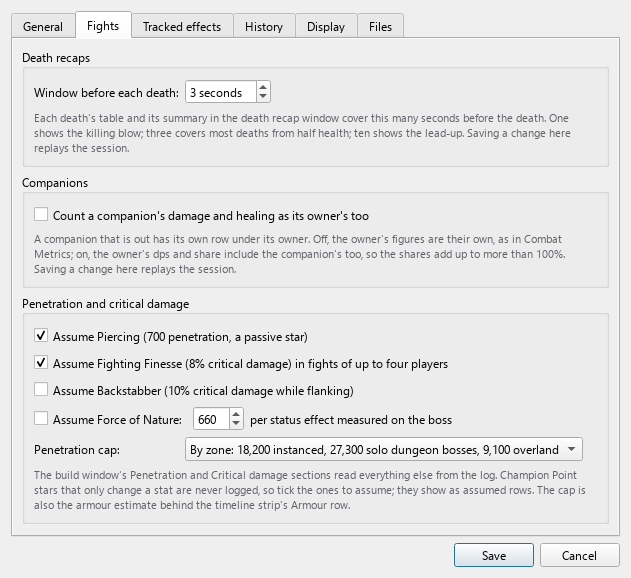
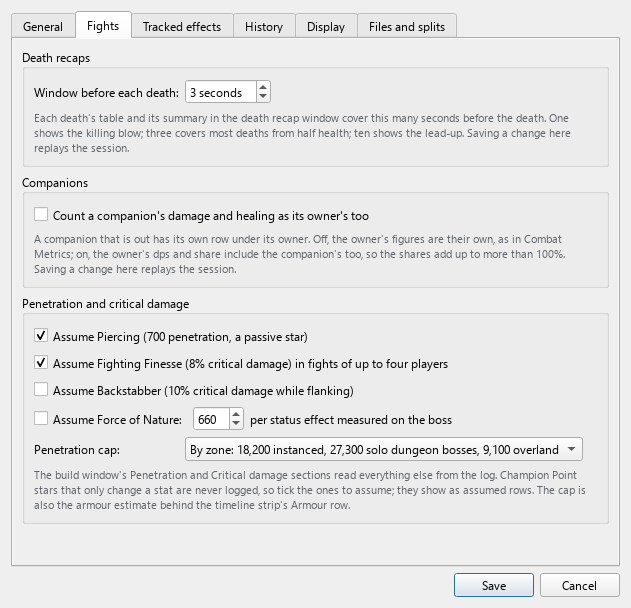
feat: the Files and splits tab, and the archive threshold as "surpasses" with what an archive does (#187)
Chris, on the test app's Files page:

- The tab reads "Files and splits".
- "Archive when the log grows by:" reads "Archive when the log
  surpasses:", and its help says what the threshold is measured against
  (the log's growth since the last archive, as log_archiver counts it)
  and what an archive does: the whole Encounter.log streamed into
  Encounter-YYMMDDHHMMSS.zip in the archive folder, stamped from the
  newest entry, verified before it is kept, the log left alone unless
  the delete box is ticked, a log the game has open skipped until the
  next start, Archive now on the toolbar doing the same at any moment.
- The guide's Trigger bullet names the label; the page's picture is
  settings-files-and-splits.png, all six retaken (the dialog is 611 px
  tall now that this page is the tallest), the threshold box set to the
  1024 MB default for the picture as the update box already is.

The no-scroll test asserts bars only when the screen capped neither
axis: a capped width squeezes a page narrower than its hint, so its
wrapped help grows taller and a vertical bar shows.

diff --git a/src/gui/settings_dialog.py b/src/gui/settings_dialog.py
@@ -50,9 +50,9 @@ REPLAYS = "Saving a change here replays the session."
 # the page it sits on is new. When a change takes effect: General, the
 # log path replays and the rest apply at once; Fights, recaps and
 # companions replay, pen/crit at the next build window; Tracked effects
-# replays; History and Display at once; Files, the split files replay,
-# retention at its next run, archiving at the next start.
-PAGES = ("General", "Fights", "Tracked effects", "History", "Display", "Files")
+# replays; History and Display at once; Files and splits, the split files
+# replay, retention at its next run, archiving at the next start.
+PAGES = ("General", "Fights", "Tracked effects", "History", "Display", "Files and splits")
 
 RULES_HELP = ("Name = ability ids on self | group | pets | boss | enemies, then stacks, each or "
               "dots; add expected solo | small | large | all. Every row of the timeline strip "
@@ -91,6 +91,14 @@ RETENTION_HELP = ("Zipped splits keep their name plus .zip and still open for re
 SIZE_GUIDE = ("Sizing guide: a veteran trial run is typically 100–300 MB, "
               "a veteran dungeon roughly 25–75 MB. "
               "1024 MB (1 GB) ≈ five veteran trials.")
+# What the threshold is measured against and what an archive does
+# (log_archiver): the label says "surpasses", so the help says since when
+ARCHIVE_HELP = ("Checked when the app starts, against what the log has grown since the last "
+                "archive. An archive streams the whole Encounter.log into "
+                "Encounter-YYMMDDHHMMSS.zip in the archive folder, stamped from the log's newest "
+                "entry and verified before it is kept; the log itself is left as it is unless the "
+                "box below is ticked. A log the game has open is skipped until the next start, and "
+                "Archive now on the toolbar does the same at any moment. " + SIZE_GUIDE)
 
 # "Warning:" in the text, so the warning is not its orange alone (#77, #187)
 DELETE_WARNING = ("Warning: deletes Encounter.log after the archive is created and "
@@ -327,9 +335,8 @@ class SettingsDialog(QDialog):
         self.threshold.setRange(1, 1024 * 100)
         self.threshold.setSuffix(" MB")
         self.threshold.setValue(int(config.get("archive.size_threshold_mb", 1024) or 1024))
-        archive_form.addRow("Archive when the log grows by:", self.threshold)
-        archive_form.addRow(self._help("Checked when the app starts. " + SIZE_GUIDE,
-                                       self.threshold))
+        archive_form.addRow("Archive when the log surpasses:", self.threshold)
+        archive_form.addRow(self._help(ARCHIVE_HELP, self.threshold))
         self.archive_dir = _PathRow(config.get("archive.dir") or "", directory=True,
                                     name="Archive folder", blank="log folder")
         archive_form.addRow("Archive folder (blank = log folder):", self.archive_dir)

diff --git a/tests/unit/test_settings_pages.py b/tests/unit/test_settings_pages.py
@@ -50,7 +50,8 @@ GROUP_PAGES = {
     "Penetration and critical damage": "Fights",
     "Fight history": "History", "Score banner": "History",
     "Display": "Display", "Privacy": "Display",
-    "Per-encounter split files": "Files", "Automatic log archiving": "Files",
+    "Per-encounter split files": "Files and splits",
+    "Automatic log archiving": "Files and splits",
 }
 
 # A value for every key the dialog writes, none of them the default
@@ -97,7 +98,7 @@ class TestSettingsPages(unittest.TestCase):
         from gui.settings_dialog import PAGES
         dialog = self._dialog()
         self.assertEqual(PAGES, ("General", "Fights", "Tracked effects", "History", "Display",
-                                 "Files"))
+                                 "Files and splits"))
         self.assertEqual([dialog.tabs.tabText(i) for i in range(dialog.tabs.count())],
                          list(PAGES))
         found = {group.title(): dialog.page_of(group)
@@ -132,16 +133,17 @@ class TestSettingsPages(unittest.TestCase):
             scroll = dialog._pages[name]
             body = scroll.widget()
             viewport = scroll.viewport()
-            # A capped width can show a horizontal bar, which takes height
-            # from the viewport
+            # A capped width squeezes the body narrower than its hint: its
+            # wrapped help grows taller, or a horizontal bar takes height
+            # from the viewport, so bars are asserted only uncapped
             hbar = scroll.horizontalScrollBar()
             taken = hbar.height() if hbar.isVisible() else 0
             if not capped_h:
                 self.assertLessEqual(body.sizeHint().height(), viewport.height() + taken, name)
-                if not taken:
-                    self.assertFalse(scroll.verticalScrollBar().isVisible(), name)
             if not capped_w:
                 self.assertLessEqual(body.sizeHint().width(), viewport.width(), name)
+            if not capped_h and not capped_w:
+                self.assertFalse(scroll.verticalScrollBar().isVisible(), name)
                 self.assertFalse(scroll.horizontalScrollBar().isVisible(), name)
             # The editor takes the Tracked effects page's height
             if name == "Tracked effects":
@@ -230,8 +232,8 @@ class TestSettingsPages(unittest.TestCase):
         self.assertEqual(second.tabs.currentIndex(), PAGES.index("History"))
         second.accept()
         # A caller can name the page; an unknown name falls back to the memory
-        self.assertEqual(self._dialog(open_page="Files").tabs.currentIndex(),
-                         PAGES.index("Files"))
+        self.assertEqual(self._dialog(open_page="Files and splits").tabs.currentIndex(),
+                         PAGES.index("Files and splits"))
         self.assertEqual(self._dialog(open_page="Nowhere").tabs.currentIndex(),
                          PAGES.index("History"))
 

diff --git a/scripts/capture_screenshots.py b/scripts/capture_screenshots.py
@@ -30,7 +30,7 @@ time, so the pictures stay in step with the app:
     settings-tracked-effects.png
     settings-history.png
     settings-display.png
-    settings-files.png
+    settings-files-and-splits.png
     examples-dialog.png             the example tracking rules picker
     review-mode.png                 a log opened for review
 
@@ -300,6 +300,9 @@ def main():
     # The box only, not the config (no check runs): the guide shows the
     # update channel as a user with checks on sees it
     dialog.update_check.setChecked(True)
+    # The box only, again: the scratch config keeps archiving off with a
+    # threshold at the spin box's maximum, which is not what a user sees
+    dialog.threshold.setValue(1024)
     dialog.show()
     pump(1)
     # One picture per page, the dialog at its natural size (its tallest

diff --git a/docs/user-guide.md b/docs/user-guide.md
@@ -411,9 +411,9 @@ Open **Settings…** from the toolbar. The settings are on six pages; the dialog
 - **Display**: *Text size*, 80% to 200% of the system's text in steps of 10, for the whole app: the fight list, the pages, every window, Settings and the timeline strip, whose rows and labels grow with it. Ability icons grow above 100% and never shrink below it. Ctrl+=, Ctrl+- and Ctrl+0 change it without opening Settings. It applies as soon as Settings is saved; no replay is needed for it. *Colour-blind colours and line styles in the DPS graph* (off by default) swaps the graph's colours for a set measured to stay apart for colour-blind readers, and gives each line a stroke of its own as well; see [DPS over time](#dps-over-time). *Reduce motion* keeps the ring on a taunt skill's icon still instead of pulsing.
 - **Privacy**: hide other players' handles and character names, the same switch as the toolbar's **Hide names** button and Ctrl+H. See [Hiding other players' names](#hiding-other-players-names).
 
-**Files**: the split logs and the archive.
+**Files and splits**: the split logs and the archive.
 
-![Settings, the Files page](screencaps/settings-files.png)
+![Settings, the Files and splits page](screencaps/settings-files-and-splits.png)
 
 - **Per-encounter split files**: write each encounter to its own `YYMMDDHHMMSS-{Zone-Name}{-vet}.log` in a folder of your choice (blank uses the log's folder). They are handy for review, and small enough to share. *Zip split logs older than N weeks* and *Move split logs to the Recycle Bin when older than M weeks* (both off by default) keep the folder in check: see [Old split logs](#old-split-logs). One file per logging session: a session the app meets again (starting mid-session, saving Settings, a restart or a crash) is continued in the file it already has, never written again under a `-1`; a file cut short gets its missing end, a complete one is left as it is. Only one running copy of the app writes into a folder: a second one finds the first's lock file there (`.esolog-tail-split.lock`) and says so in the status bar instead of splitting. Copies that an older version left behind (`-1`, `-2`, … files identical to their neighbour) can be moved to the Recycle Bin with `python scripts/dedupe_splits.py --recycle` from a source checkout.
 - **Automatic log archiving**: the growth threshold that triggers an archive at startup, the archive folder, and whether to delete the original after a verified archive. See [below](#automatic-log-archiving).
@@ -439,7 +439,7 @@ If a download fails, the button comes back and the status bar says why.
 ESO never truncates `Encounter.log`. With regular raiding it grows by hundreds of MB a night and can reach tens of GB. The app archives it for you.
 
 - **When**: checked **once, at app startup**. ESO keeps the log open for the whole game session (even between `/encounterlog` toggles), so startup, usually before you launch ESO, is the safe moment.
-- **Trigger**: the log has grown by more than the threshold since the last archive. The default is **1024 MB**, about five veteran trials (a vet trial run is typically 100 to 300 MB, a vet dungeon roughly 25 to 75 MB).
+- **Trigger**: the log has grown past the threshold (*Archive when the log surpasses*) since the last archive. The default is **1024 MB**, about five veteran trials (a vet trial run is typically 100 to 300 MB, a vet dungeon roughly 25 to 75 MB).
 - **What it does**: streams the log into `Encounter-YYMMDDHHMMSS.zip` (stamped from the newest log entry) in the archive folder, by default next to the log, with progress in the status bar. The zip is written as a `.partial` file and renamed only after it verifies, so an interrupted archive never leaves a corrupt zip behind.
 - **Safety**: the app takes exclusive access to the log for the whole operation. If ESO is running and holds the file, the archive is **skipped with a notification** and monitoring starts normally; nothing is ever zipped mid-write. Linux cannot lock a file that way, so there the app skips the archive when another process has the log open, and keeps the original if the log grew while it was being zipped.
 - **Your original log is kept** by default. With *Delete Encounter.log after a verified archive* on, the original is removed only after the zip verifies, and ESO starts a fresh, small log.

diff --git a/changelog.d/187-settings-pages.md b/changelog.d/187-settings-pages.md
@@ -1,5 +1,5 @@
 ### Changed
-- **Settings on six pages** (#187): General (the log, starting with Windows, updates), Fights (death recaps, companions, penetration and crit), Tracked effects (the rules editor, given the page's height), History (the fight history and the score banner), Display (text size, colours, motion, names) and Files (split logs, archiving), in a tab bar above Save and Cancel. One column of thirteen groups was 2,139 px tall, of which a 1080p screen showed 43%. The dialog opens at the size of its tallest page, whole on a 1366×768 screen at 100% text size and on 1080p at 200%, and reopens on the page it was last closed on until the app is closed. Every group keeps its title, so the guide's "Settings → …" references still hold; the guide shows one picture per page.
+- **Settings on six pages** (#187): General (the log, starting with Windows, updates), Fights (death recaps, companions, penetration and crit), Tracked effects (the rules editor, given the page's height), History (the fight history and the score banner), Display (text size, colours, motion, names) and Files and splits (split logs, archiving), in a tab bar above Save and Cancel. One column of thirteen groups was 2,139 px tall, of which a 1080p screen showed 43%. The dialog opens at the size of its tallest page, whole on a 1366×768 screen at 100% text size and on 1080p at 200%, and reopens on the page it was last closed on until the app is closed. Every group keeps its title, so the guide's "Settings → …" references still hold; the guide shows one picture per page.
 - **Saving with a tracked-effect rule that will not parse asks first** (#187): the dialog turns to the Tracked effects page, puts the cursor in the editor and says how many lines will be skipped, with Save and Go back. Before, the only sign was a status line under the editor, which on another page is out of sight.
 
 ### Fixed
